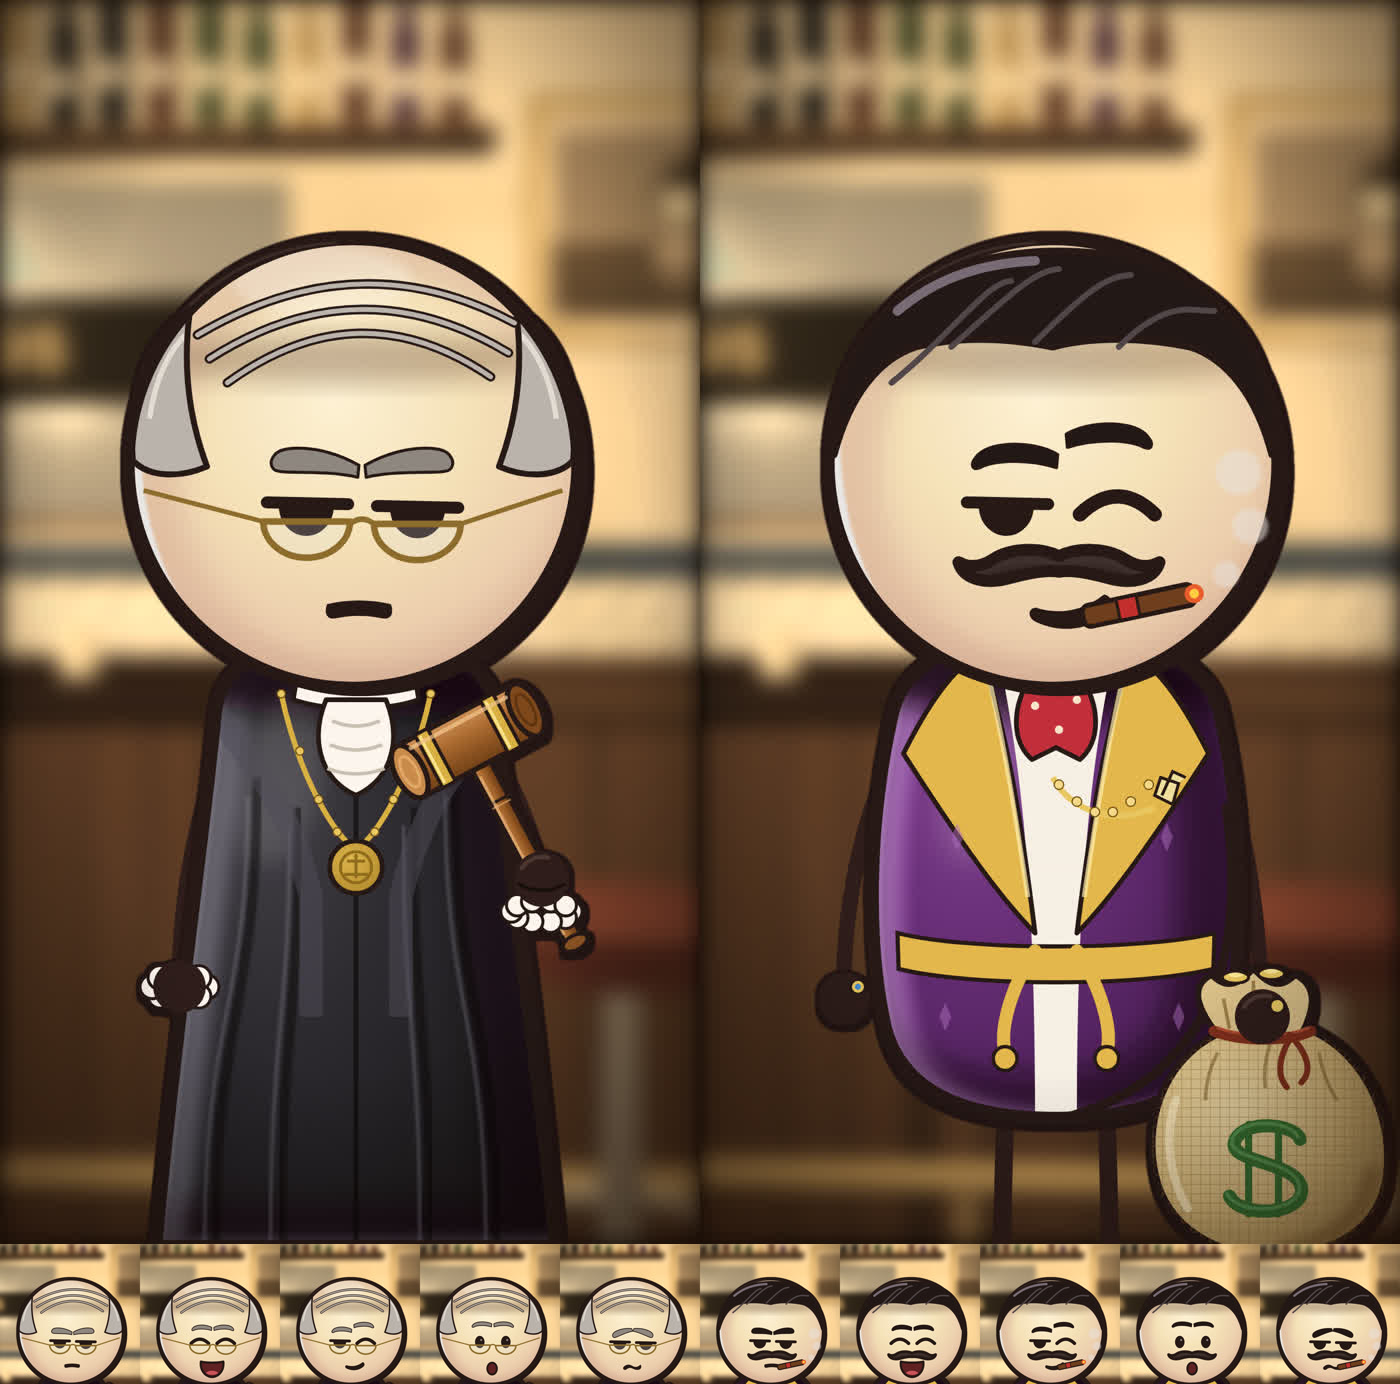
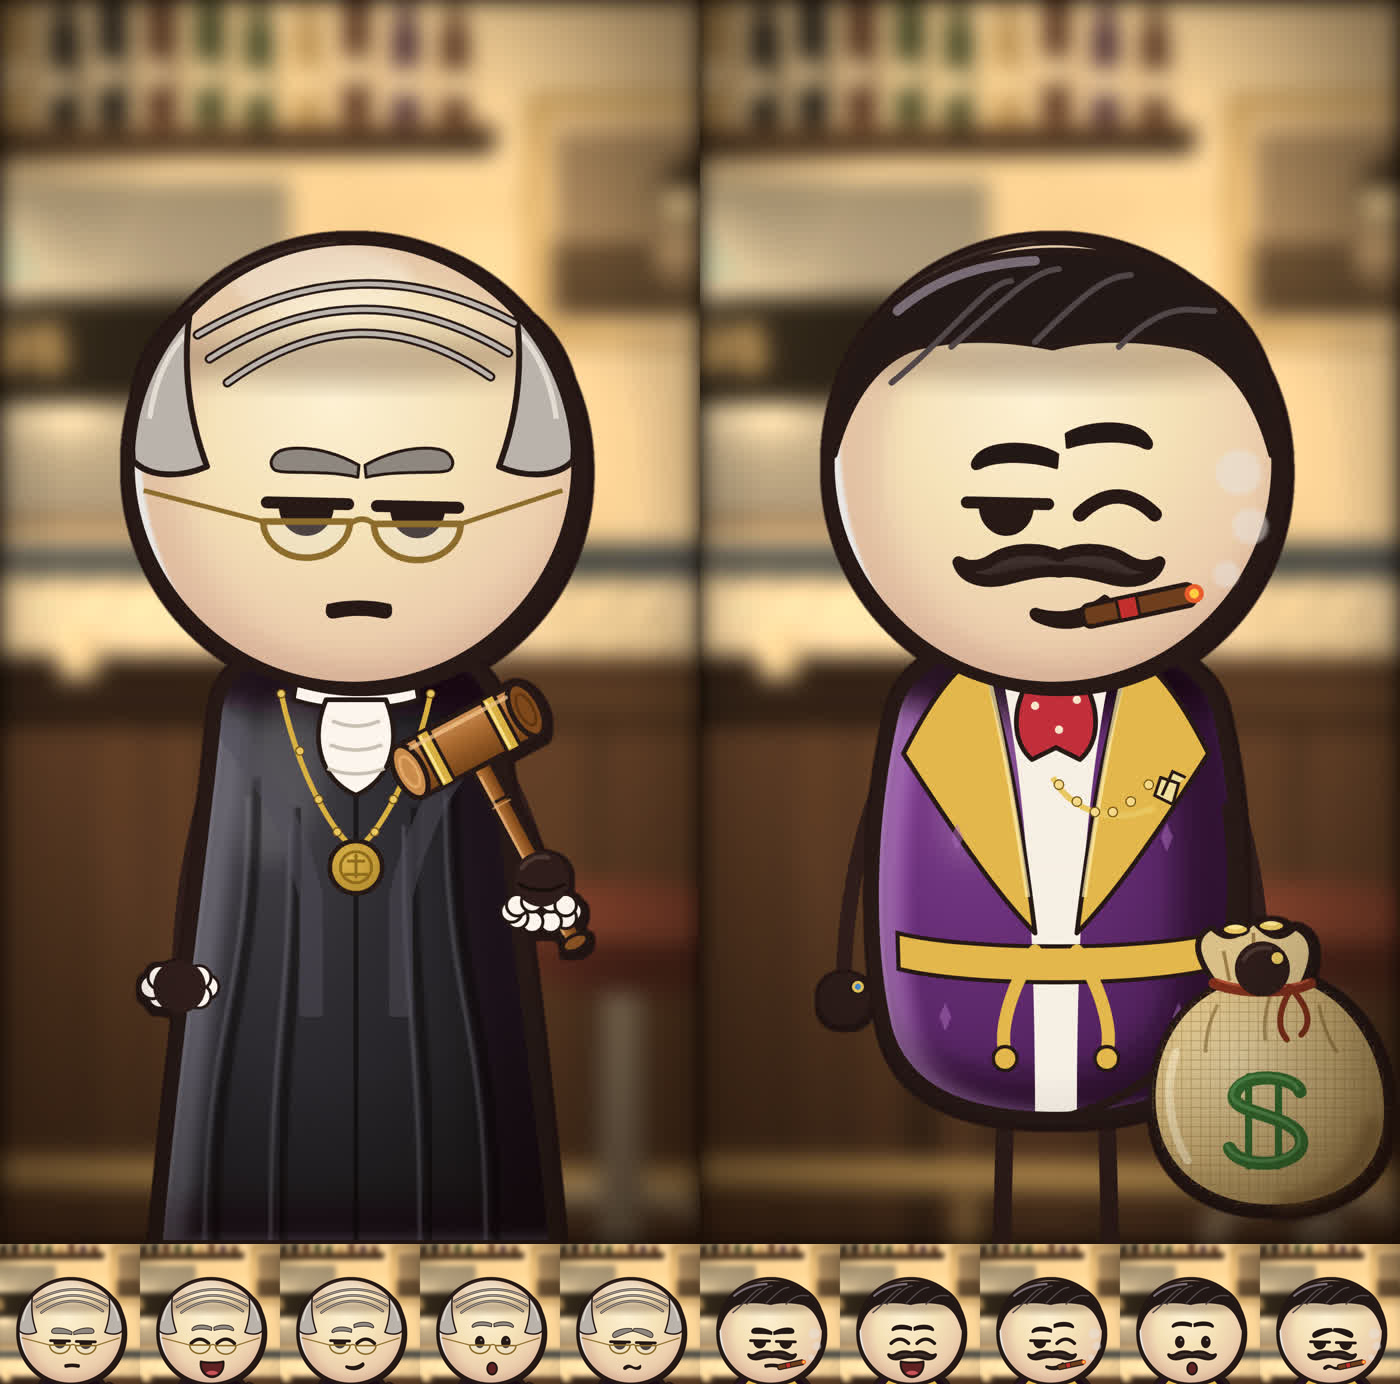
Millonario: saco dentro del encuadre
Claude-Session: https://claude.ai/code/session_01DBoMy54bVFDCmuWyX5MfGJ

Changed region(s): [[0.7986, 0.6525, 1.0, 0.901]]

diff --git a/.claude/skills/archivoraro/engine_3d/pj99/models.js b/.claude/skills/archivoraro/engine_3d/pj99/models.js
@@ -321,7 +321,7 @@ function millonario2d(o = {}) {
     id: 'mi', bodyPath: BODY_MILL, bodyEdge: 'M880,1350 C910,1560 880,1800 600,1872',
     top: ['#7a3a90', '#622a78', '#4a1c5c', '#2c0e38', '#a868c0', '#d8a8e8'], hatC: ['#000', '#000', '#000', '#000'], brow: '#1a1212',
     legs: legsAt(510, 680, 1860),
-    armL: 'M322,1260 C260,1400 240,1540 240,1660', handL: [240, 1670], armR: 'M868,1260 C920,1400 935,1560 940,1690', handR: [940, 1700],
+    armL: 'M322,1260 C260,1400 240,1540 240,1660', handL: [240, 1670], armR: 'M868,1260 C920,1400 935,1500 940,1610', handR: [940, 1620],
     bodyIn: id => `<path d="M500,1100 C540,1300 560,1500 560,1870 L630,1870 C630,1500 650,1300 690,1100Z" fill="#f6f2ea"/>
       <path d="M470,1090 C520,1250 540,1400 560,1560 C500,1500 430,1400 340,1260 C380,1180 420,1120 470,1090Z M720,1090 C670,1250 650,1400 630,1560 C690,1500 760,1400 850,1260 C810,1180 770,1120 720,1090Z" fill="#e2b84a" stroke="${TK}" stroke-width="8" stroke-linejoin="round"/>
       <path d="M480,1120 C510,1250 530,1380 548,1500 M710,1120 C680,1250 660,1380 642,1500" stroke="#fff0b0" stroke-width="8" fill="none" opacity=".7"/>
@@ -333,7 +333,7 @@ function millonario2d(o = {}) {
       <path d="M590,1300 C620,1360 700,1380 760,1350" stroke="#e8c860" stroke-width="10" fill="none"/>${[0, 1, 2, 3, 4, 5].map(i => `<circle cx="${600 + i * 30}" cy="${1312 + Math.sin(i / 5 * Math.PI) * 48}" r="8" fill="#f4dc8a" stroke="#6a4a10" stroke-width="2"/>`).join('')}
       <defs><radialGradient id="${id}Sk" cx=".35" cy=".35" r=".8"><stop offset="0" stop-color="#ead8a8"/><stop offset=".55" stop-color="#d2b67a"/><stop offset="1" stop-color="#9a7c46"/></radialGradient>
         <pattern id="${id}Jt" width="16" height="16" patternUnits="userSpaceOnUse"><path d="M0,8 L16,8 M8,0 L8,16" stroke="#8a6c3a" stroke-width="2" opacity=".35"/></pattern></defs>
-      <g transform="translate(925,1700)">
+      <g transform="translate(925,1620)">
         <path d="M-40,20 C-150,60 -190,180 -160,280 C-130,370 -40,400 30,400 C110,400 200,370 220,280 C240,180 190,60 90,20Z" fill="url(#${id}Sk)" stroke="${TK}" stroke-width="12" stroke-linejoin="round"/>
         <path d="M-40,20 C-150,60 -190,180 -160,280 C-130,370 -40,400 30,400 C110,400 200,370 220,280 C240,180 190,60 90,20Z" fill="url(#${id}Jt)"/>
         <path d="M200,250 C190,330 130,385 40,392" stroke="#6a4c22" stroke-width="30" fill="none" opacity=".45" filter="url(#${id}S2)"/>
@@ -348,7 +348,7 @@ function millonario2d(o = {}) {
         <path d="M60,30 C90,60 100,90 80,110 M64,32 C40,70 40,100 56,118" stroke="#7a2a1a" stroke-width="10" fill="none" stroke-linecap="round"/>
         ${[[-30, -66], [30, -72]].map(([x, y]) => `<ellipse cx="${x}" cy="${y}" rx="22" ry="10" fill="#e8c860" stroke="${TK}" stroke-width="5"/><ellipse cx="${x}" cy="${y - 4}" rx="12" ry="4" fill="#fff0a0" opacity=".8"/>`).join('')}
       </g>
-      <circle cx="940" cy="1700" r="46" fill="#261717"/><path d="M909,1684 C919,1668 937,1662 953,1666" stroke="#5a4440" stroke-width="7" fill="none" opacity=".6" stroke-linecap="round"/><circle cx="965" cy="1682" r="12" fill="#e8c860" stroke="${TK}" stroke-width="4"/><circle cx="240" cy="1670" r="44" fill="#261717"/><circle cx="264" cy="1650" r="12" fill="#e8c860" stroke="${TK}" stroke-width="4"/><circle cx="264" cy="1650" r="5" fill="#3a8ad8"/>`,
+      <circle cx="940" cy="1620" r="46" fill="#261717"/><path d="M909,1604 C919,1588 937,1582 953,1586" stroke="#5a4440" stroke-width="7" fill="none" opacity=".6" stroke-linecap="round"/><circle cx="965" cy="1602" r="12" fill="#e8c860" stroke="${TK}" stroke-width="4"/><circle cx="240" cy="1670" r="44" fill="#261717"/><circle cx="264" cy="1650" r="12" fill="#e8c860" stroke="${TK}" stroke-width="4"/><circle cx="264" cy="1650" r="5" fill="#3a8ad8"/>`,
     faceTop: (id, f) => mustache(id, MUST.fino, '#1a1212', '#4a3a3a') + (f === 'sorpresa' || f === 'feliz' ? '' : `<g transform="rotate(-12,650,1030)"><rect x="640" y="1012" width="190" height="36" rx="12" fill="#6a3a1a" stroke="${TK}" stroke-width="8"/><rect x="700" y="1012" width="34" height="36" fill="#c02a2a" stroke="${TK}" stroke-width="5"/><circle cx="830" cy="1030" r="16" fill="#e85a2a"/><circle cx="830" cy="1030" r="8" fill="#ffd040"/></g>
       ${[[880, 960, 22], [920, 880, 30], [900, 790, 38]].map(([x, y, r]) => `<circle cx="${x}" cy="${y}" r="${r}" fill="#e8e4e0" opacity=".55" filter="url(#${id}S1)"/>`).join('')}`),
     hat: id => `<path d="M224,760 C210,540 380,420 600,420 C820,420 970,540 956,760 C930,660 880,600 820,580 C720,560 640,566 590,580 C520,566 440,560 360,580 C300,600 250,660 224,760Z" fill="#1a1212" stroke="${TK}" stroke-width="12" stroke-linejoin="round"/>
